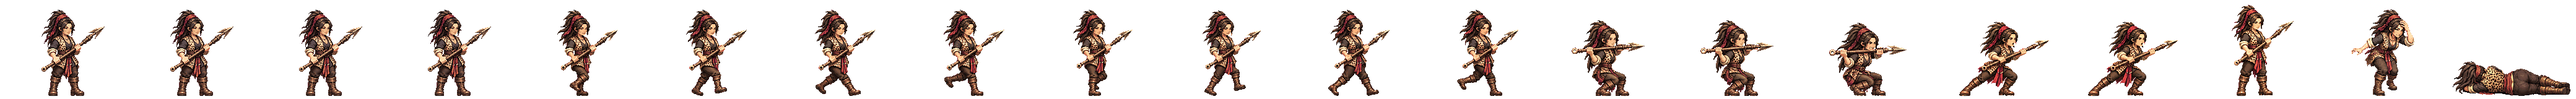
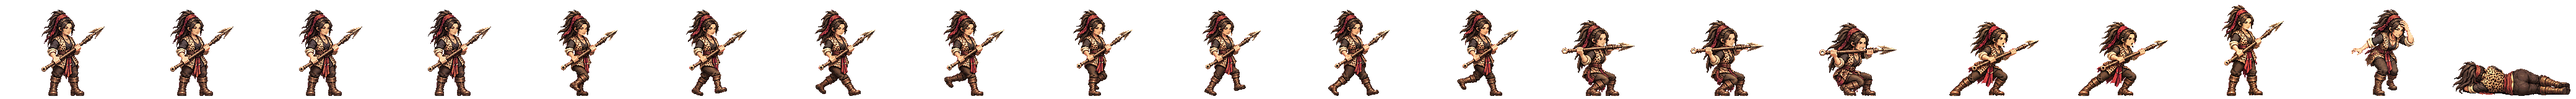
맞음 두 칸(움츠림·젖혀짐) + 일어남 두 칸 — 해적 두목 시범을 게임에 · 띠·계획·몸놀림 잇기
형 11-24 「죽는 거 말고 피격들도 한 컷씩 다 만들고 있는 거 맞지? 필수로 필요한 컷들은 우리 게임에서도 최대한」.
지금까지는 쓰러짐 첫 칸 하나를 맞음에도 썼다. 참고 게임(던파)의 맞음 2 · 일어남 2 를 인형으로(pose-rig hit_pole2) 받아 덧띠 공격 여덟 칸 뒤에 붙인다.
- 하네스: HEROES hit=True 면 덧띠 끝에 네 칸 · 공격 여덟 칸을 「마지막 8칸」이 아니라 자리로 센다 · 검수 GIF·wire-hero(hit → 계획 hurt·rise)도
- 게임: 계획 hurt [움츠림, 젖혀짐] — 깎인 체력이 최대의 6% 이상이면 움츠림 .08 초 뒤 젖혀짐, 아니면 움츠림만(화면만 · 판 셈 그대로). 계획 없는 띠는 예전 칸 18
- 해적 두목 덧띠 38칸 · 띠 검사 합격 · 시험 2166 통과(맞음 두 칸 시험 더함)
- 일어남(rise)은 칸만 넣었다 — 쓰는 곳(되살아남 등)은 아직

Claude-Session: https://claude.ai/code/session_01TRiuN7s6aDfSnaHxrkctmU

Changed region(s): [[0.5938, 0.0625, 0.9062, 0.9688]]

diff --git a/src/tune/params.ts b/src/tune/params.ts
@@ -1425,7 +1425,7 @@ export const HAEBI_IDLE = {
     maehwa: { cells: 26, base: [0, 1], hold: 2.4, fall: [18, 20, 21, 19], quirk: [22, 23, 24, 25], quirkTimes: [.28, .3, .42, .25] },
     'base-w-31-dabeol-dalbit': { cells: 26, base: [0, 1], hold: 2.4, fall: [18, 20, 21, 19], quirk: [22, 23, 24, 25], quirkTimes: [.28, .42, .3, .25] },
     'base-w-13-young-archer': { cells: 26, base: [0, 1], hold: 2.4, fall: [18, 20, 21, 19], quirk: [22, 23, 24, 25], quirkTimes: [.28, .3, .42, .25] },
-    'base-w-10-pirate-captain': { cells: 34, base: [0, 1], hold: 2.4, fall: [18, 20, 21, 19], quirk: [22, 23, 24, 25], quirkTimes: [.3, .32, .4, .28], attack: { cells: [26, 27, 28, 29, 30, 31, 32, 33], times: [.09, .08, .11, .05, .15, .07, .08, .12], hit: 4 }, xGeom: { h: 224, root: 92, foot: 216 } },
+    'base-w-10-pirate-captain': { cells: 38, base: [0, 1], hold: 2.4, fall: [18, 20, 21, 19], quirk: [22, 23, 24, 25], quirkTimes: [.3, .32, .4, .28], attack: { cells: [26, 27, 28, 29, 30, 31, 32, 33], times: [.09, .08, .11, .05, .15, .07, .08, .12], hit: 4 }, hurt: [34, 35], rise: [36, 37], xGeom: { h: 224, root: 92, foot: 216 } },
     'base-w-17-mahan-pearl-diver': { cells: 34, base: [0, 1], hold: 2.4, fall: [18, 20, 21, 19], quirk: [22, 23, 24, 25], quirkTimes: [.3, .32, .4, .28], attack: { cells: [26, 27, 28, 29, 30, 31, 32, 33], times: [.09, .08, .11, .12, .12, .08, .08, .12], hit: 3 }, xGeom: { h: 224, root: 92, foot: 216 } },
     'base-w-06-buyeo-huntress': { cells: 34, base: [0, 1], hold: 2.4, fall: [18, 20, 21, 19], quirk: [22, 23, 24, 25], quirkTimes: [.3, .32, .4, .28], attack: { cells: [26, 27, 28, 29, 30, 31, 32, 33], times: [.09, .08, .11, .05, .15, .07, .08, .12], hit: 4 }, xGeom: { h: 224, root: 92, foot: 216 } },
     'base-w-64-miri-dallae': { cells: 34, base: [0, 1], hold: 2.4, fall: [18, 20, 21, 19], quirk: [22, 23, 24, 25], quirkTimes: [.3, .32, .4, .28], attack: { cells: [26, 27, 28, 29, 30, 31, 32, 33], times: [.09, .08, .11, .05, .15, .07, .08, .12], hit: 4 }, xGeom: { h: 224, root: 92, foot: 216 } },
@@ -1457,6 +1457,8 @@ export const HAEBI_ANIM = {
   window: .3,
   /** 열전 띠 칸: 서기(idleTime 초마다 다음) · 걷기 첫 칸 · 맞음 · 비기 시전(기를 모으는 자세) */
   idle: [0, 1, 2, 1], idleTime: .65, walkCell: 4, hurtCell: 18, castCell: 12,
+  /** 계획에 맞음 두 칸(hurt)이 있는 띠: 깎인 체력이 최대 체력의 hurtStrong 몫 이상이면 크게 맞음 — 움츠림을 hurtSnap 초 보인 뒤 젖혀짐 (판의 맞음 시계 .3 초 안) */
+  hurtStrong: .06, hurtSnap: .08,
   /**
    * 공격 칸 역할 — 열전 띠(anim-px 정규 20칸)의 공격은 모든 장수가 12..17 이다(대결 원본 틀 [9..13,0] 같은 번호와 다르다 · codex62 PREP).
    * ready 준비(빗나간 예비를 거둘 때) · antic 예비 · swing 휘두름 · contact 맞힘·쏨 · recover 마무리(서기로).

diff --git a/src/raid/hero-motion.ts b/src/raid/hero-motion.ts
@@ -54,10 +54,13 @@ interface Memo {
   busyAt: number; idling: boolean
   /** 마지막으로 가까이(HAEBI_IDLE.stanceR 안) 적이 있던 판 시각 — 싸움 자세(계획 stance)를 그 뒤 stanceLinger 초까지 */
   nearAt: number
+  /** 지난 관측의 체력 · 맞음 시계 · 이번 맞음이 시작된 판 시각 · 크게 맞았나(깎인 체력 ≥ HAEBI_ANIM.hurtStrong × 최대 체력) */
+  hp: number; hurt: number; hurtAt: number; strong: boolean
 }
 const memos = new WeakMap<HaebiRun, Memo>()
 const fresh = (s: HaebiRun): Memo => ({ t: s.t, x: s.x, y: s.y, phase: 0, lean: 0, movedAt: -Infinity, walkFrame: -1, walkSy: 1,
-  cool: primaryCool(s), struckAt: -Infinity, aim: s.face, reach: 0, heldStart: -Infinity, anticAt: -Infinity, busyAt: -Infinity, idling: false, nearAt: -Infinity })
+  cool: primaryCool(s), struckAt: -Infinity, aim: s.face, reach: 0, heldStart: -Infinity, anticAt: -Infinity, busyAt: -Infinity, idling: false, nearAt: -Infinity,
+  hp: s.hp, hurt: s.hurt, hurtAt: -Infinity, strong: false })
 /** 주 무기 쿨다운 — 쿨다운 칸 이름은 주 무기 이름과 같다(KITS[kit].primary · 방울은 bell) */
 function primaryCool(s: HaebiRun) { return s.cool[KITS[s.kit].primary as keyof HaebiRun['cool']] }
 /** 판이 겨누는 적(가장 가까운 산 적)과 거리 — 판의 nearest 와 같은 셈(가운데 거리) */
@@ -91,6 +94,8 @@ function observe(s: HaebiRun, stride: number): Memo {
     m.struckAt = s.t - Math.max(0, A.window - s.attack); m.aim = foe ? Math.sign(foe.x - s.x) || s.face : s.face
     if (foe) m.reach = Math.max(m.reach, foe.d)
   }
+  if (s.hurt > m.hurt + 1e-9) { m.hurtAt = s.t; m.strong = m.hp - s.hp >= A.hurtStrong * s.maxHp }   // 새로 맞음 (판이 hurt 를 다시 채웠다)
+  m.hp = s.hp; m.hurt = s.hurt
   m.cool = cool; m.t = s.t; m.x = s.x; m.y = s.y
   return m
 }
@@ -126,7 +131,12 @@ export function heroPose(s: HaebiRun, o: PoseOptions): HeroPose {
   return pose
 }
 function heroPoseOf(s: HaebiRun, m: Memo, role: AttackRole, o: PoseOptions): HeroPose {
-  if (s.hurt > 0) return neutral(A.hurtCell, s.face, m.lean)
+  if (s.hurt > 0) {
+    // 계획에 맞음 두 칸이 있으면: 약하게 맞음 = 움츠림 · 크게 맞음 = 움츠림 hurtSnap 초 → 젖혀짐 (참고: 던파 맞음 2칸 · ART-SKELETON §12)
+    const hc = o.idle?.plan.hurt
+    if (hc && hc.length >= 2) return neutral(m.strong && s.t - m.hurtAt >= A.hurtSnap ? hc[1]! : hc[0]!, s.face, m.lean)
+    return neutral(A.hurtCell, s.face, m.lean)
+  }
   if (s.cast?.kind === 'ult') return neutral(A.castCell, s.face, m.lean)
   const age = A.window - s.attack, start = s.t - age, sw = role.swing.length ? A.swing : 0, c1 = sw + contactTime(role)
   // 이번 공격이 주 무기로 선 것이면 그때 적 쪽 · 아니면(비기 끝 등) 판의 방향

diff --git a/src/raid/hero-idle.ts b/src/raid/hero-idle.ts
@@ -12,6 +12,9 @@ export interface XGeom { h: number; root: number; foot: number }
 export interface IdlePlan { cells: number; base: readonly number[]; hold: number; blink?: number; breath?: readonly number[]; quirk?: readonly number[]; quirkTimes?: readonly number[]; fall?: readonly number[]
   /** 공격 칸 계획 (attack-plan.ts · 없으면 HAEBI_ANIM.roles 그대로) */
   attack?: AttackPlan
+  /** 맞음 두 칸 [움츠림, 젖혀짐] (덧 띠 · 없으면 HAEBI_ANIM.hurtCell 하나) · 일어남 두 칸 [한 무릎, 넓게 섬] — 11-24 형 「피격들도 한 컷씩 · 필수 컷은 최대한」 */
+  hurt?: readonly number[]
+  rise?: readonly number[]
   /** 싸움 자세 — 가까이 적이 있으면(HAEBI_IDLE.stanceR · 떠난 뒤 stanceLinger 초까지) base 대신 이 칸들 · 그동안 깜빡임만 (큰 숨·버릇 없음) */
   stance?: readonly number[]
   /** 덧 띠(20 칸부터)의 칸 규격 — 없으면 본 띠와 같은 칸 높이·발 줄·한가운데 뿌리 (strip-geom.ts) */
@@ -47,8 +50,8 @@ export const usesCompanion = (plan: IdlePlan | null) => !!plan && plan.cells > S
 export function usablePlan(plan: IdlePlan, ready: boolean): IdlePlan {
   if (ready || !usesCompanion(plan)) return plan
   const ok = (c: readonly number[] | undefined): c is readonly number[] => c !== undefined && c.every(n => n < STRIP_CELLS)
-  const { fall, quirk, breath, blink, xGeom: _x, ...rest } = plan
-  return { ...rest, cells: STRIP_CELLS, ...(ok(fall) ? { fall } : {}), ...(ok(quirk) ? { quirk } : {}), ...(ok(breath) ? { breath } : {}), ...(blink !== undefined && blink < STRIP_CELLS ? { blink } : {}) }
+  const { fall, quirk, breath, blink, hurt, rise, xGeom: _x, ...rest } = plan
+  return { ...rest, cells: STRIP_CELLS, ...(ok(fall) ? { fall } : {}), ...(ok(quirk) ? { quirk } : {}), ...(ok(hurt) ? { hurt } : {}), ...(ok(rise) ? { rise } : {}), ...(ok(breath) ? { breath } : {}), ...(blink !== undefined && blink < STRIP_CELLS ? { blink } : {}) }
 }
 
 /** 띠 이름 → 정수 씨앗 (FNV-1a) — 장수마다 깜빡임·숨이 어긋나게 */

diff --git a/tools/sprite-kit/anim-harness.py b/tools/sprite-kit/anim-harness.py
@@ -42,7 +42,7 @@ HEROES = {
     'maehwa': dict(strip='gen-maehwa', atk='bow', atk8=False),
     'dalbit': dict(strip='gen-base-w-31-dabeol-dalbit', atk='bow', atk8=False),
     'archer': dict(strip='gen-base-w-13-young-archer', atk='bow', atk8=False),   # 앳된 궁수
-    'pirate': dict(strip='gen-base-w-10-pirate-captain', atk='thrust', src='thrust2', actw=264, atk8=True, act=True, legacy=(('a', 2), ('a', 3), ('b', 3), ('b', 4))),   # 해적 두목(작살) · 끝까지 찌른 칸은 좁은 칸에 안 들어가 당기는 칸으로
+    'pirate': dict(hit=True, strip='gen-base-w-10-pirate-captain', atk='thrust', src='thrust2', actw=264, atk8=True, act=True, legacy=(('a', 2), ('a', 3), ('b', 3), ('b', 4))),   # 해적 두목(작살) · 끝까지 찌른 칸은 좁은 칸에 안 들어가 당기는 칸으로
     'diver': dict(strip='gen-base-w-17-mahan-pearl-diver', atk='thrust', atk8=True, act=True, legacy=(('a', 1), ('a', 2), ('a', 3), ('a', 1)),
                   cells8=[('a', 1), ('a', 2), ('a', 3), ('a', 4), ('a', 4), ('a', 3), ('a', 2), ('a', 1)]),   # 해녀(작살) · 뒤 판 b 는 그림 도구가 거절 → 앞 판으로: 타격 = 넷째(a4) · wire-hero hit=3
     'huntress': dict(strip='gen-base-w-06-buyeo-huntress', atk='thrust', src='thrust2', actw=264, atk8=True, act=True, legacy=(('a', 2), ('a', 3), ('b', 3), ('b', 4))),   # 부여 사냥꾼(창)
@@ -199,7 +199,9 @@ def check(name, main=None, extra=None, grp=None):
     xg = [f'xcw={ACT["cw"]}', f'xch={ACT["ch"]}', f'xroot={ACT["root"]}', f'xfoot={ACT["foot"]}'] if h.get('act') else []
     if h.get('act') and grp is None and os.path.exists(extra):   # 게임에 든 띠를 다시 볼 때: 덧띠 = 쓰러짐 2 (+ 개성 4) + 공격 8
         nx = Image.open(extra).size[0] // ACT['cw']
-        grp = ['stand:stand:0-3', 'walk:walk:4-11', 'attack:attack:12-17'] + (['quirk:misc:22-25'] if nx >= 14 else []) + [f'attack8:attack:{20 + nx - 8}-{20 + nx - 1}']
+        hx = 4 if h.get('hit') else 0   # 맞음·일어남 네 칸이 공격 뒤에 붙은 장수(11-24)
+        nx -= hx
+        grp = (['hit:attack:%d-%d' % (20 + nx, 20 + nx + 3)] if hx else []) + ['stand:stand:0-3', 'walk:walk:4-11', 'attack:attack:12-17'] + (['quirk:misc:22-25'] if nx >= 14 else []) + [f'attack8:attack:{20 + nx - 8}-{20 + nx - 1}']
     args = [main] + ([f'x={extra}'] + xg if os.path.exists(extra) else []) + (grp or groups(h, n)) + [f'out={OUT}/chk-{h["strip"]}']
     return run('anim-check.py', *args).returncode == 0
 
@@ -282,17 +284,20 @@ def strip_act(name, install=False):
     n_old = 2 + (4 if os.path.exists(f'{PX}/{name}-quirk-1.png') else 0)
     old = [e.crop((i * CW, 0, (i + 1) * CW, CH)) for i in range(20, 20 + n_old)]
     xs = [to_act(c) for c in old] + [Image.open(f'{PX}/{name}-{h["atk"]}8-{t}-{i}.png').convert('RGBA') for t, i in cells8(h)]
+    A8 = slice(len(old), len(old) + 8)   # 공격 여덟 칸 자리 (뒤에 맞음 네 칸이 붙을 수 있어 「마지막 8칸」으로 세지 않는다)
+    if h.get('hit'):   # 맞음 둘(움츠림 · 젖혀짐) + 일어남 둘(한 무릎 · 넓게 섬) — bake-scene motion <out-…-hit> <이름> hit <scene-…-hit>
+        xs += [to_act(Image.open(f'{PX}/{name}-hit-{i}.png').convert('RGBA')) for i in (1, 2, 3, 4)]
     # 공격 묶음을 서기에 잇는다 (11-24): 공격 여덟 칸은 앞발 끝으로, 서기·걷기는 윗몸으로 맞춰서, 그림의 보폭이 인형보다 넓은 장수는
     #   서기 → 공격 첫 칸 · 공격 끝 칸 → 서기에서 몸이 9~16px 옆으로 튀었다(해비 15 · 사냥꾼 16 · 해녀 15). 여덟 칸을 **같은 만큼** 옮겨
     #   끝 칸(거둔 자세)의 윗몸을 서기에 맞춘다 — 여덟 칸 사이의 앞발 고정은 그대로다. 좁은 칸 공격(12~17)도 같은 만큼.
     st_act = to_act(e.crop((0, 0, CW, CH)))
     d = -_reg(_upper(xs[-1]), _upper(st_act))
     narrow = [e.crop((i * CW, 0, (i + 1) * CW, CH)) for i in range(12, 18)]
-    lo = max(-min(_room(c)[0] for c in xs[-8:] + narrow), -40)
-    hi = min(min(_room(c)[1] for c in xs[-8:] + narrow), 40)
+    lo = max(-min(_room(c)[0] for c in xs[A8] + narrow), -40)
+    hi = min(min(_room(c)[1] for c in xs[A8] + narrow), 40)
     d = max(lo, min(hi, d))
     if abs(d) >= 2:
-        xs[-8:] = [_shift(c, d) for c in xs[-8:]]
+        xs[A8] = [_shift(c, d) for c in xs[A8]]
         m2 = Image.open(main).convert('RGBA')
         for k, c in enumerate(narrow):
             m2.paste(_shift(c, d), ((12 + k) * CW, 0))
@@ -304,14 +309,17 @@ def strip_act(name, install=False):
         xstrip.alpha_composite(c, (i * ACT['cw'], 0))
     xstrip.save(extra)
     a0 = 20 + len(old)
-    grp = ['stand:stand:0-3', 'walk:walk:4-11', 'attack:attack:12-17'] + (['quirk:misc:22-25'] if len(old) >= 6 else []) + [f'attack8:attack:{a0}-{a0 + 7}']
+    grp = ['stand:stand:0-3', 'walk:walk:4-11', 'attack:attack:12-17'] + (['quirk:misc:22-25'] if len(old) >= 6 else []) + [f'attack8:attack:{a0}-{a0 + 7}'] + ([f'hit:attack:{a0 + 8}-{a0 + 11}'] if h.get('hit') else [])
     ok = check(name, main, extra, grp)
     cells = [e.crop((i * CW, 0, (i + 1) * CW, CH)) for i in range(20)]
     st = to_act(cells[0])
     seq = [(st, 700)] + [(to_act(cells[i]), 110) for i in range(4, 12)] * 2 + [(st, 600)]
     if n_old >= 6:
         seq += [(c, t) for c, t in zip(xs[2:6], (300, 320, 400, 280))] + [(st, 600)]
-    seq += [(c, t) for c, t in zip(xs[-8:], [90, 80, 110, 50, 150, 70, 80, 120])] + [(st, 800)]
+    seq += [(c, t) for c, t in zip(xs[A8], [90, 80, 110, 50, 150, 70, 80, 120])] + [(st, 800)]
+    if h.get('hit'):
+        hc = xs[len(old) + 8:]
+        seq += [(hc[0], 140), (st, 500), (hc[0], 90), (hc[1], 260), (hc[2], 600), (hc[3], 350), (st, 700)]
     fr = [on_bg(c, 3) for c, _ in seq]
     fr[0].save(f'{OUT}/{h["strip"]}-flow.gif', save_all=True, append_images=fr[1:], duration=[t for _, t in seq], loop=0)
     # 낱칸 판: GIF 에 들어간 칸을 차례대로(걷기는 한 바퀴만) · 뿌리 선·바닥 줄 — 보내기 전에 이것을 본다

diff --git a/tools/sprite-kit/review-gif.py b/tools/sprite-kit/review-gif.py
@@ -41,10 +41,15 @@ def frames(key):
     seq = [('서기', st, 700)] + [('걷기', m[i], 110) for i in range(4, 12)] * 2 + [('서기', st, 500)]
     if len(x) - (8 if h.get('atk8') else 0) >= 6:   # 덧띠 = 쓰러짐 2 + 개성 4 (+ 공격 8)
         seq += [('개성', c, t) for c, t in zip(x[2:6], (300, 320, 400, 280))] + [('서기', st, 500)]
+    hit = x[-4:] if h.get('hit') else []
+    if hit:
+        x = x[:-4]
     if h.get('atk8') and len(x) >= 8:
         seq += [('공격', c, t) for c, t in zip(x[-8:], (90, 80, 110, 50, 150, 70, 80, 120))]
     else:
         seq += [('공격', m[i], t) for i, t in zip(range(12, 18), (110, 110, 90, 150, 110, 140))]
+    if hit:
+        seq += [('서기', st, 600), ('맞음', hit[0], 140), ('서기', st, 500), ('맞음', hit[0], 90), ('맞음', hit[1], 260), ('일어남', hit[2], 600), ('일어남', hit[3], 350)]
     seq += [('서기', st, 600), ('맞음', m[18], 300)]
     if len(x) >= 2:
         seq += [('쓰러짐', x[0], 160), ('쓰러짐', x[1], 160)]

diff --git a/tools/sprite-kit/wire-hero.py b/tools/sprite-kit/wire-hero.py
@@ -57,9 +57,12 @@ def main(argv):
     parts = [f'cells: {cells}', 'base: [0, 1]', 'hold: 2.4', 'fall: [18, 20, 21, 19]']
     if has_quirk:
         parts += ['quirk: [22, 23, 24, 25]', 'quirkTimes: [%s]' % ', '.join(opt.get('quirk', '.28,.3,.42,.25').split(','))]
+    hit = 'hit' in argv   # 덧띠 끝에 맞음 둘 + 일어남 둘 (anim-harness HEROES hit=True)
     if 'atk8' in argv:
-        a0 = cells - 8
+        a0 = cells - 8 - (4 if hit else 0)
         parts.append('attack: { cells: [%s], times: [%s], hit: %s }' % (', '.join(str(a0 + k) for k in range(8)), ', '.join(opt.get('times', '.09,.08,.11,.05,.15,.07,.08,.12').split(',')), opt.get('hit', '4')))
+    if hit:
+        parts += ['hurt: [%d, %d]' % (cells - 4, cells - 3), 'rise: [%d, %d]' % (cells - 2, cells - 1)]
     if act:
         parts.append('xGeom: { h: %d, root: %d, foot: %d }' % (ACT['ch'], ACT['root'], ACT['foot']))
     line = f'    {name}: {{ {", ".join(parts)} }},'
